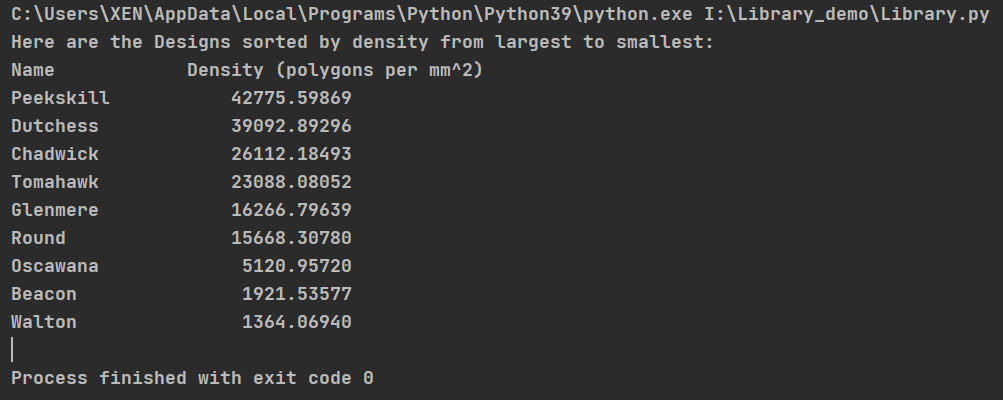
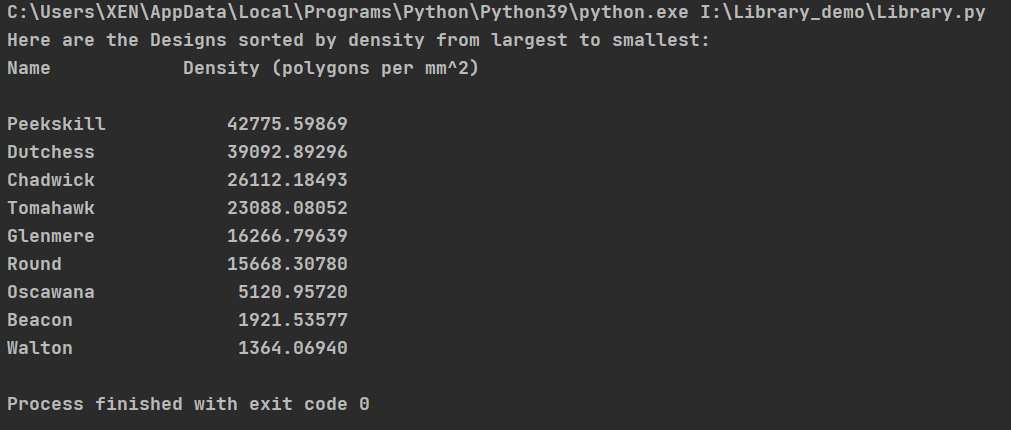
update Library.py
Delete Class Methods

Changed region(s): [[0.0, 0.0, 0.989, 0.84], [0.0, 0.15, 0.1236, 0.84], [0.0, 0.9, 0.3709, 0.96]]

diff --git a/Library.py b/Library.py
@@ -85,29 +85,7 @@ class Library:
         reversed_list = sorted(self.design_list, key=lambda design_lambda: design_lambda.density, reverse=True)
         # Sort by density in reverse order.
 
-        print("{0:15} Density (polygons per mm^2)".format("Name"))
-        for design in reversed_list:
-            print("{0:15} {1:>15}".format(design.name, design.density.quantize(Decimal("0.00000"))))
-            # print(design.name, design.density.quantize(Decimal("0.00000")), sep="\t")
-            # Print content.
-
-    @classmethod
-    def print_reverse_by_density_class_method(cls, library_object) -> None:
-        """Prints the name attribute of Design instances in reverse order of instances.
-
-        Internal calculations are done using exact Decimal types,
-        and the output is rounded to a more aesthetically pleasing output.
-        The name is not recommended to be more than 15 characters
-        otherwise it will affect the beautiful output.
-
-        args:
-        library_object: Library instances as storage containers.
-        """
-
-        reversed_list = sorted(library_object.design_list, key=lambda design_lambda: design_lambda.density, reverse=True)
-        # Sort by density in reverse order.
-
-        print("{0:15} Density".format("Name"))
+        print("{0:15} Density (polygons per mm^2)\n".format("Name"))
         for design in reversed_list:
             print("{0:15} {1:>15}".format(design.name, design.density.quantize(Decimal("0.00000"))))
             # print(design.name, design.density.quantize(Decimal("0.00000")), sep="\t")
